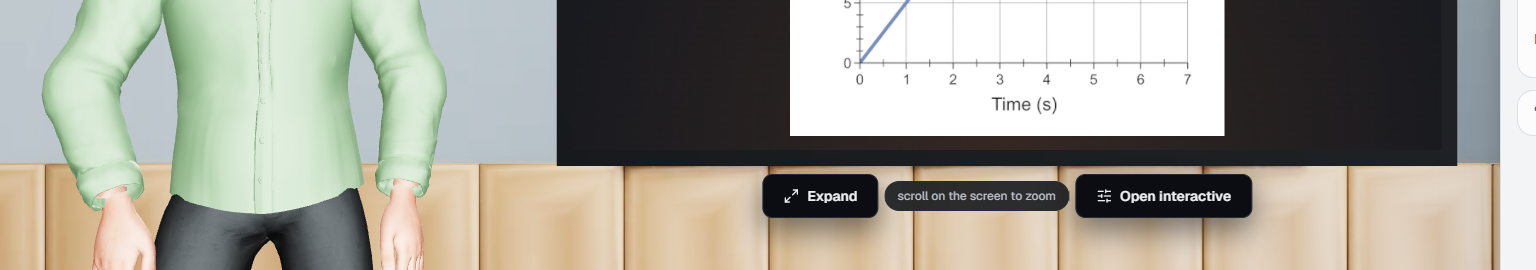
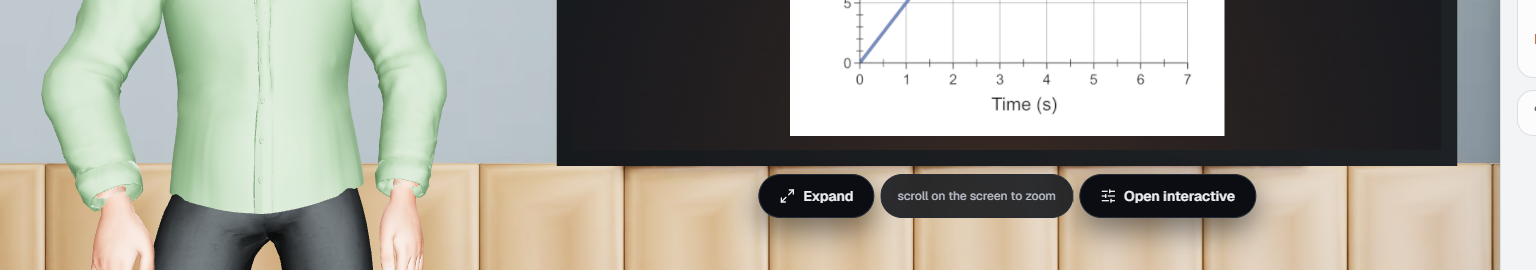
Give every control under the room's display the same 44px pill shape
The picture and model toolbars, the widget strip, Open interactive and Continue mixed 10px-corner buttons with short pill chips. They are now all 44px pills, like the other controls placed on the room.

Changed region(s): [[0.4688, 0.6222, 0.8438, 0.8296], [0.0625, 0.9481, 0.0938, 1.0], [0.0938, 0.9185, 0.125, 0.9481]]

diff --git a/src/components/learn/InteractiveStage.tsx b/src/components/learn/InteractiveStage.tsx
@@ -46,10 +46,11 @@ const FOCUSABLE = 'button:not([disabled]), iframe, [tabindex]:not([tabindex="-1"
 
 const LARGE_CARD =
   "absolute left-1/2 top-1/2 z-[60] h-[min(720px,calc(100%-6rem))] w-[min(960px,calc(100%-2.5rem))] -translate-x-1/2 -translate-y-1/2";
-// The strip's controls match the image toolbar under the screen (Experience.tsx SCENE_BUTTON / SCENE_CHIP).
-const STRIP_BUTTON = "whitespace-nowrap border border-line shadow-e1";
+// The strip's controls match the image toolbar under the screen (Experience.tsx SCENE_BUTTON / SCENE_CHIP): 44px pills.
+const STRIP_BUTTON = "whitespace-nowrap rounded-full border border-line shadow-e1";
+const STRIP_CONTINUE = "whitespace-nowrap rounded-full shadow-e1";
 const STRIP_CHIP =
-  "min-w-0 max-w-[min(420px,40vw)] truncate rounded-full border border-line bg-bg/[0.86] px-3 py-1.5 text-xs font-medium text-body backdrop-blur-md";
+  "block h-11 min-w-0 max-w-[min(420px,40vw)] truncate rounded-full border border-line bg-bg/[0.86] px-4 text-xs font-medium leading-[42px] text-body backdrop-blur-md";
 
 /** The widget is ready but hidden (and no quiz is up): "Open interactive" brings it back. */
 function useReopenable(): boolean {
@@ -81,7 +82,7 @@ export function ReopenInteractiveControls({ buttonClassName }: { buttonClassName
         Open interactive
       </Button>
       {exploring && (
-        <Button onClick={requestContinue} className="whitespace-nowrap shadow-e1">
+        <Button onClick={requestContinue} className={STRIP_CONTINUE}>
           Continue
           <ArrowRight aria-hidden />
         </Button>
@@ -261,14 +262,14 @@ export function InteractiveStage() {
             Expand
           </Button>
           <Button
-            variant="secondary" size="icon" className={cn(STRIP_BUTTON, "rounded-full")}
+            variant="secondary" size="icon" className={STRIP_BUTTON}
             onClick={() => setInteractiveShown(false)}
             aria-label="Hide the interactive"
           >
             <X aria-hidden />
           </Button>
           {exploring && (
-            <Button onClick={requestContinue} className="shadow-e1">
+            <Button onClick={requestContinue} className={STRIP_CONTINUE}>
               Continue
               <ArrowRight aria-hidden />
             </Button>
@@ -286,14 +287,14 @@ export function InteractiveStage() {
         >
           <Button
             variant="secondary"
-            className="border border-line bg-bg/[0.86] shadow-e1 backdrop-blur-md"
+            className="rounded-full border border-line bg-bg/[0.86] shadow-e1 backdrop-blur-md"
             onClick={() => setInteractiveShown(true)}
           >
             <SlidersHorizontal aria-hidden />
             Open interactive
           </Button>
           {exploring && (
-            <Button onClick={requestContinue} className="shadow-e1">
+            <Button onClick={requestContinue} className={STRIP_CONTINUE}>
               Continue
               <ArrowRight aria-hidden />
             </Button>

diff --git a/src/components/three/Experience.tsx b/src/components/three/Experience.tsx
@@ -25,9 +25,11 @@ export { RendererConfig, SceneLights };
 // In-scene controls (the image and model toolbars): the system's secondary
 // button and a status chip, inside `.theme-ink`. Classes only; the <Html>
 // positions and every scene constant are unchanged.
-const SCENE_BUTTON = "whitespace-nowrap border border-line shadow-e1";
+// One shape for the whole row under the screen (Hmz, 2026-10-15): 44px pills, buttons and hint chips alike, like
+// every other control placed on the room.
+const SCENE_BUTTON = "whitespace-nowrap rounded-full border border-line shadow-e1";
 const SCENE_CHIP =
-  "pointer-events-none flex items-center gap-2 whitespace-nowrap rounded-full border border-line bg-bg/[0.86] px-3 py-1.5 text-xs font-medium text-body backdrop-blur-md";
+  "pointer-events-none flex h-11 items-center gap-2 whitespace-nowrap rounded-full border border-line bg-bg/[0.86] px-4 text-xs font-medium text-body backdrop-blur-md";
 
 
 // Shared anchor for the image panel and the 3D model.

diff --git a/.claude/docs/brand-system.md b/.claude/docs/brand-system.md
@@ -237,6 +237,8 @@ is a stack.
   has a 3px `border-accent` on `bg-tint` in ink; the others are `body`.
 - **In-scene controls:** "View in 3D" / "Show image" are `Button variant="secondary"` inside `.theme-ink`;
   status and hint chips and the callouts are `bg-bg/[0.86]` pills with `text-body` / `text-ink`.
+  The row under the room's display (picture and model toolbars, the widget's strip, Open interactive, Continue) is one
+  shape (Hmz, 2026-10-15): 44px `pill`s, buttons and hint chips alike, in one row; a control never sits on another.
 - **Status in lesson cards:** key insight `warning` on `warning/10` with a Lightbulb icon; output and "in the room"
   chips `success` on `success/10`; code `ink` on `sunk`; hint and analogy on `tint`.
 
